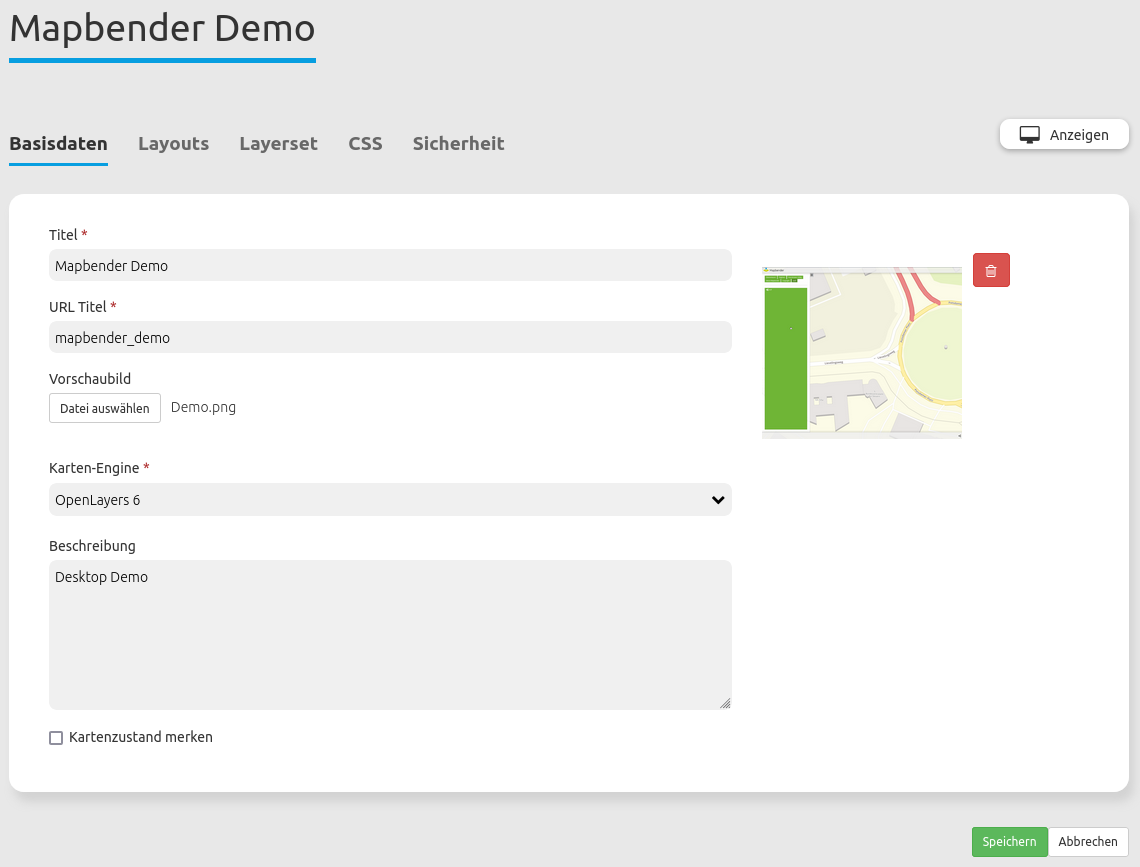
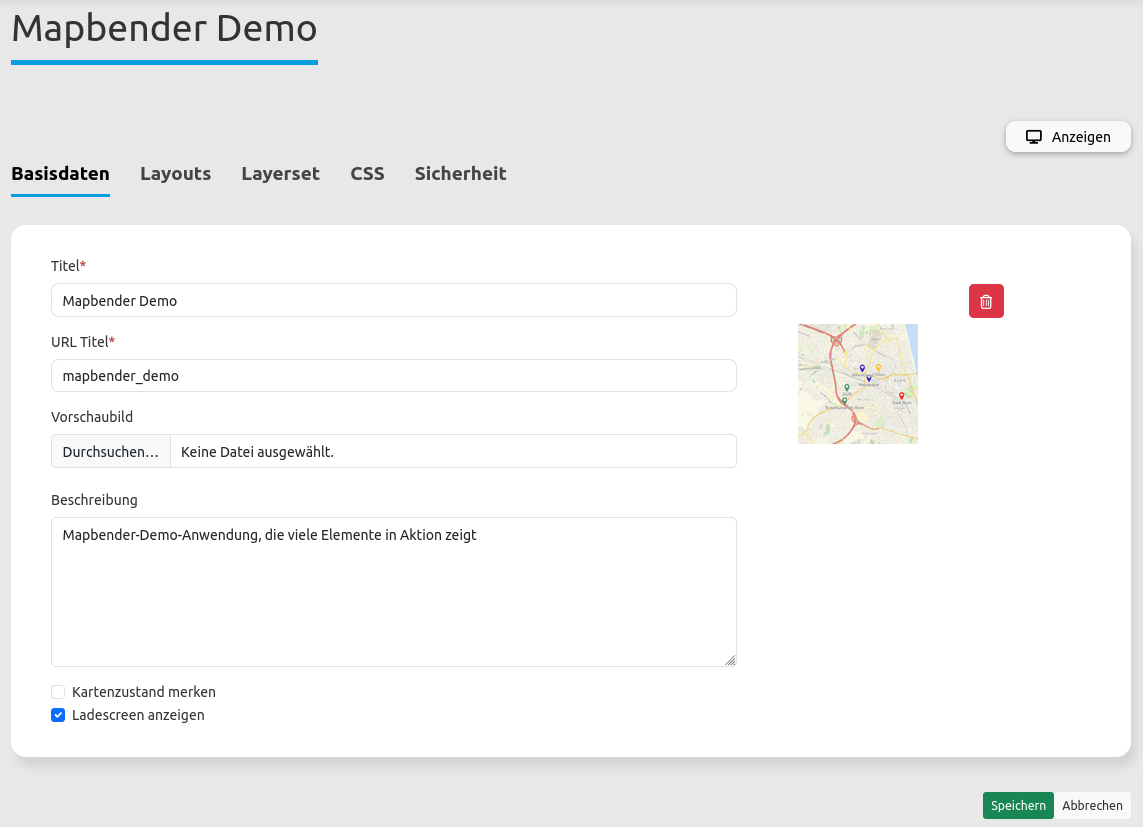
Add basic Splashscreen information

diff --git a/en/quickstart.rst b/en/quickstart.rst
@@ -153,9 +153,11 @@ Furthermore, new applications can be created from scratch. The required steps ar
 
 #. A thumbnail can be uploaded as well. It will appear next to the application title on the application overview page. For this, select "*Select File"* below the thumbnail section.
 
-#. Set a tick at *"persistent map state"*, to make certain map parameters and configurations persistent. Further information can be found in :ref:`share`.
+#. Set the checkmark at *"Persistent map state"*, to make certain map parameters and configurations persistent. Further information can be found in :ref:`share`.
 
-#. Click *"save"* to save and create your application. It is now possible to add elements (e.g. map, navigation bar, legend) and services to your applicaiton.
+#. Set the checkmark at *"Show Splashscreen"* to generate a loading screen on application startup that indicates the loading time.
+
+#. Click *"Save"* to save and create your application. It is now possible to add elements (e.g. map, navigation bar, legend) and services to your applicaiton.
 
   .. image:: ../figures/mapbender_create_application.png
      :width: 100%

diff --git a/de/backend/applications/basedata.rst b/de/backend/applications/basedata.rst
@@ -14,8 +14,9 @@ Die Basisdaten bestimmen die grundlegenden Informationen und Einstellungen einer
 
 * **Beschreibung**: Beschreibung der Anwendung, frei ausfüllbares Textfeld.
 
-* **Kartenzustand merken**: Speichert sitzungsübergreifend den Zustand bestimmter Kartenparameter und -einstellungen. Weitere Informationen finden Sie auf der Seite zu den :ref:`Share-Elementen <persistant_map_view_de>`.
+* **Kartenzustand merken**: Speichert sitzungsübergreifend den Zustand bestimmter Kartenparameter und -einstellungen. Weitere Informationen finden Sie auf der Seite zu den :ref:`Share-Elementen <persistent_map_view_de>`.
 
+* **Ladescreen zeigen**: Zeigt einen Ladebildschirm bei Anwendungsstart an, der die Ladezeit graphisch überbrückt.
 
   .. image:: /figures/de/mapbender_create_application.png
      :width: 100%

diff --git a/en/backend/applications/basedata.rst b/en/backend/applications/basedata.rst
@@ -14,8 +14,9 @@ Base data determines the fundamental information and settings of an application.
 
 * **Description**: Text input field that can store the application's description, if provided.
 
-* **Persistent map state**: Stores the state of specific map parameters and settings across sessions. For more information, please see :ref:`Share Elements <persistant_map_view>`.
+* **Persistent map state**: Stores the state of specific map parameters and settings across sessions. For more information, please see :ref:`Share Elements <persistent_map_view>`.
 
+* **Show Splashscreen**: Shows a splashscreen on application startup to indicate the loading time.
 
   .. image:: /figures/mapbender_create_application.png
      :width: 100%

diff --git a/de/quickstart.rst b/de/quickstart.rst
@@ -154,6 +154,7 @@ Es können außerdem komplett neue Anwendungen über das Backend definiert werde
 
 #. Setzen Sie ein Häkchen bei *"Kartenzustand merken"*, um bestimmte Kartenparameter und -einstellungen persistent zu machen. Weitere Informationen finden Sie unter :ref:`share_de`.
 
+#. Setzen Sie ein Häkchen bei *"Ladescreen anzeigen"*, um einen Ladebildschirm bei Anwendungsstart zu erzeugen, der die Ladezeit graphisch überbrückt.
 
 #. Klicken Sie *"Speichern"*, um die Anwendung zu erzeugen. Nach der Erstellung können Sie Elemente (z.B. Kartenelement, Navigation, Legende) und Dienste hinzufügen.
 
